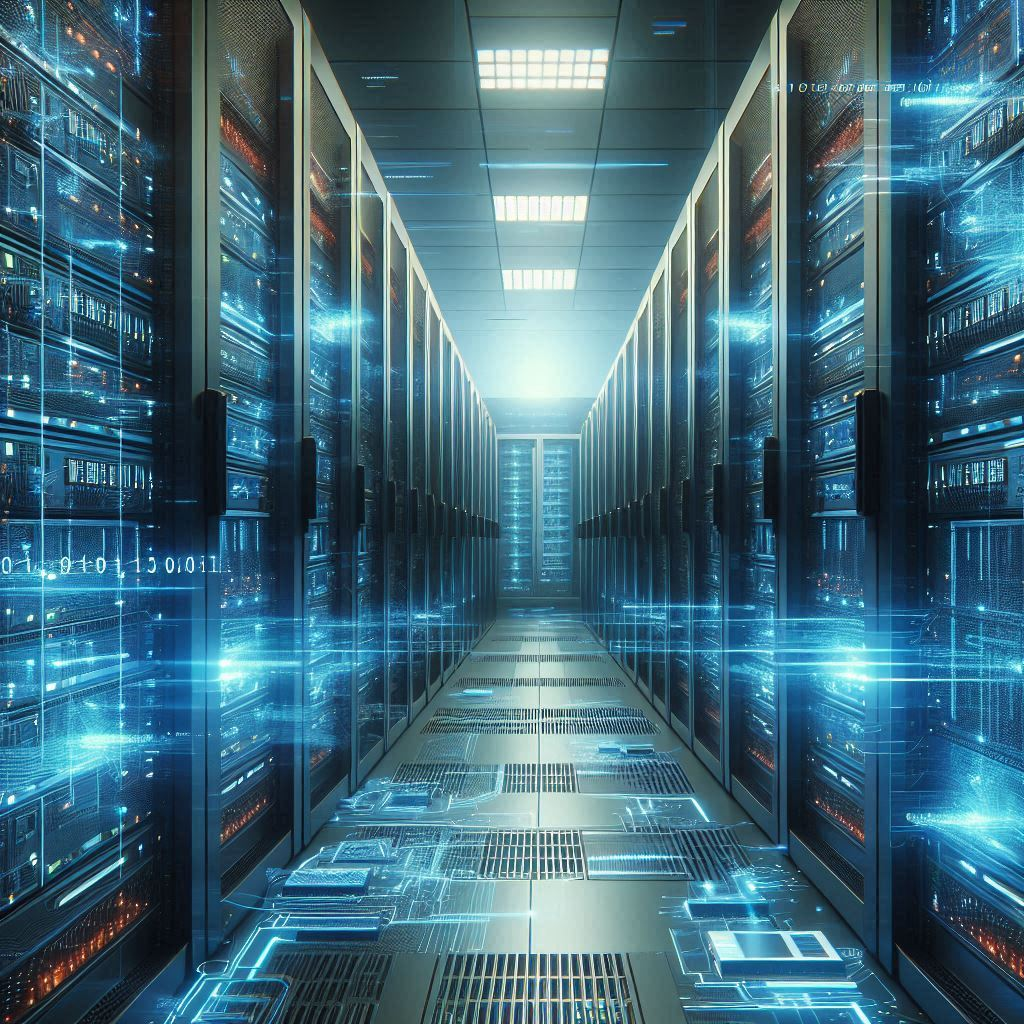
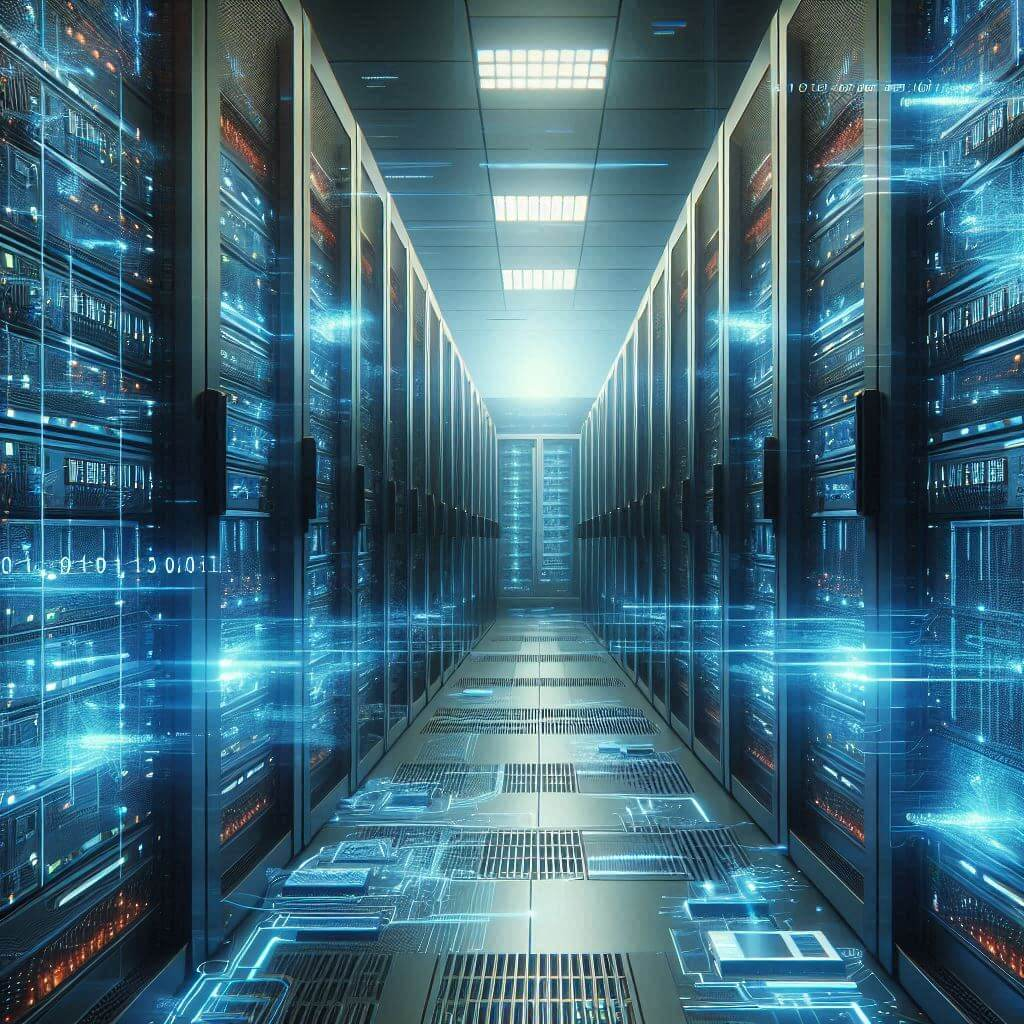
Updated Articles

diff --git a/public/css/style.css b/public/css/style.css
@@ -593,7 +593,44 @@ article .entry video {
   width: 100%;
   border: none;
 }
+article .entry .img-group {
+  display: -webkit-box;
+  display: -moz-box;
+  display: -webkit-flex;
+  display: -ms-flexbox;
+  display: box;
+  display: flex;
+  -webkit-box-lines: multiple;
+  -moz-box-lines: multiple;
+  -o-box-lines: multiple;
+  -webkit-flex-wrap: wrap;
+  -ms-flex-wrap: wrap;
+  flex-wrap: wrap;
+  gap: 10px;
+  -webkit-box-align: start;
+  -moz-box-align: start;
+  -o-box-align: start;
+  -ms-flex-align: start;
+  -webkit-align-items: flex-start;
+  align-items: flex-start;
+}
+article .entry .img-group img {
+  width: auto;
+}
+article .entry .img-group a {
+  width: auto;
+}
+article .entry a {
+  display: -webkit-inline-box;
+  display: -moz-inline-box;
+  display: -webkit-inline-flex;
+  display: -ms-inline-flexbox;
+  display: inline-box;
+  display: inline-flex;
+  width: 100%;
+}
 article .entry p:first-child img {
+  width: 100%;
   max-height: 400px;
   object-fit: cover;
 }

diff --git a/public/2022/02/05/2/index.html b/public/2022/02/05/2/index.html
@@ -99,7 +99,7 @@
         
   
   <div class="tags">
-    <a href="/tags/React/">React</a>, <a href="/tags/framework/">framework</a>, <a href="/tags/JavaScript/">JavaScript</a>
+    <a href="/tags/JavaScript/">JavaScript</a>, <a href="/tags/React/">React</a>, <a href="/tags/framework/">framework</a>
   </div>
 
         

diff --git a/public/2022/02/05/3/index.html b/public/2022/02/05/3/index.html
@@ -125,7 +125,7 @@
         
   
   <div class="tags">
-    <a href="/tags/JavaScript/">JavaScript</a>, <a href="/tags/plugin/">plugin</a>
+    <a href="/tags/plugin/">plugin</a>, <a href="/tags/JavaScript/">JavaScript</a>
   </div>
 
         

diff --git a/public/2022/02/05/4/index.html b/public/2022/02/05/4/index.html
@@ -110,7 +110,7 @@
         
   
   <div class="tags">
-    <a href="/tags/JavaScript/">JavaScript</a>, <a href="/tags/plugin/">plugin</a>, <a href="/tags/Three-js/">Three.js</a>, <a href="/tags/3d/">3d</a>, <a href="/tags/Blender/">Blender</a>
+    <a href="/tags/plugin/">plugin</a>, <a href="/tags/JavaScript/">JavaScript</a>, <a href="/tags/Three-js/">Three.js</a>, <a href="/tags/3d/">3d</a>, <a href="/tags/Blender/">Blender</a>
   </div>
 
         

diff --git a/public/2022/02/06/5/index.html b/public/2022/02/06/5/index.html
@@ -120,7 +120,7 @@ Demo專案(登入後查看效果)官方Demo">
         
   
   <div class="tags">
-    <a href="/tags/JavaScript/">JavaScript</a>, <a href="/tags/plugin/">plugin</a>
+    <a href="/tags/plugin/">plugin</a>, <a href="/tags/JavaScript/">JavaScript</a>
   </div>
 
         